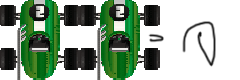
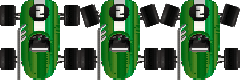
Doing a big refactor on the positioning system to be more precise.

diff --git a/src/model/cars/Car.java b/src/model/cars/Car.java
@@ -2,6 +2,7 @@ package model.cars;
 
 import model.GameObject;
 import model.misc.SmokeController;
+import util.Geom;
 import util.ImageHandler;
 
 import java.awt.image.BufferedImage;
@@ -16,6 +17,7 @@ public class Car implements DrawableCar, FragileCar {
     private States state = States.STRAIGHT;
 
     private double x,y;
+    private double hypotenusa;
     private final int originX, originY;
     private double heading;
     private double physHeading;
@@ -45,11 +47,12 @@ public class Car implements DrawableCar, FragileCar {
         originX = x;
         originY = y;
         originHeading = heading;
-        //TODO Fix friction in constructor
         this.friction = friction;
 
         reset();
         setImages();
+
+        hypotenusa = Math.sqrt(getWidth()*getWidth()/4 + getHeight()*getHeight()/4);
 
         smoke = new SmokeController(this);
     }
@@ -119,12 +122,32 @@ public class Car implements DrawableCar, FragileCar {
 
     @Override
     public int getX(){
-        return (int)(x - images[0].getWidth()/2);
+        return (int)x;
     }
 
     @Override
     public int getY(){
-        return (int)(y - images[0].getHeight()/2);
+        return (int)y;
+    }
+
+    public int getRotX(){
+
+        double middleX = x + ((getWidth())*
+                Math.cos(heading)*Math.cos(heading) +
+                (getHeight())*
+                        Math.sin(heading)*Math.sin(heading))/2;
+
+        return (int)(middleX + hypotenusa*Math.sin(heading - Math.PI/4)*Math.sin(heading - Math.PI/4));
+        //return (int)middleX;
+    }
+
+    public int getRotY(){
+        double middleY = y + ((getWidth())*
+                Math.sin(heading)*Math.sin(heading) +
+                (getHeight())* Math.cos(heading)*Math.cos(heading))/2;
+
+        //return (int)middleY;
+        return (int)(middleY - hypotenusa*Math.cos(heading - Math.PI/4)*Math.cos(heading - Math.PI/4));
     }
 
     @Override
@@ -139,7 +162,7 @@ public class Car implements DrawableCar, FragileCar {
 
     @Override
     public double getHeading(){
-        return heading;
+        return Geom.getPI(heading);
     }
 
     @Override
@@ -149,7 +172,7 @@ public class Car implements DrawableCar, FragileCar {
 
     @Override
     public void accelerate() {
-        if(!turnedOff){
+        if(!turnedOff && !locked){
             accelerating = true;
 
             if(acceleration < speedLimit){

diff --git a/src/view/MainSurface.java b/src/view/MainSurface.java
@@ -76,21 +76,35 @@ public class MainSurface extends JPanel {
 
     private void paintCars(Graphics2D g){
         for(int i = 0; i < track.getDrawableCars().length; i++){
-
             int frame = track.getDrawableCars()[i].getFrame();
+            double heading = track.getDrawableCars()[i].getHeading();
 
             //Algorithm for centering image and scaling to window.
-            int x = (int)((track.getDrawableCars()[i].getX() - track.getDrawableCars()[i].getWidth()/2)*scale()) + scaleX();
-            int y = (int)((track.getDrawableCars()[i].getY() - track.getDrawableCars()[i].getHeight()/2)*scale());
-            int middleX = (int)(x + (track.getDrawableCars()[i].getWidth()/2)*scale());
-            int middleY = (int)(y + (track.getDrawableCars()[i].getHeight()/2)*scale());
+            //int x = (int)((track.getDrawableCars()[i].getX() - track.getDrawableCars()[i].getWidth()/2)*scale()) + scaleX();
+            //int y = (int)((track.getDrawableCars()[i].getY() - track.getDrawableCars()[i].getHeight()/2)*scale());
+            int x = (int)(track.getDrawableCars()[i].getX()*scale() + scaleX());
+            int y = (int)(track.getDrawableCars()[i].getY()*scale());
 
-            g.rotate(track.getDrawableCars()[i].getHeading(), middleX, middleY);
+
+            double middleX = (track.getDrawableCars()[i].getX() + ((track.getDrawableCars()[i].getWidth())*
+                    Math.cos(heading)*Math.cos(heading) +
+                    (track.getDrawableCars()[i].getHeight())*
+                            Math.sin(heading)*Math.sin(heading))/2)*scale();
+
+            double middleY = (track.getDrawableCars()[i].getY() + ((track.getDrawableCars()[i].getWidth())*
+                    Math.pow(Math.sin(heading), 2) +
+                    (track.getDrawableCars()[i].getHeight())*
+                            Math.pow(Math.cos(heading),2))/2)*scale();
+
+            g.rotate(heading, middleX, middleY);
 
             //Draw scaled car image
             g.drawImage(scaledCarImgs[i][frame], x, y, this);
+            g.setColor(Color.red);
+            g.fillRoundRect((int)(track.getDrawableCars()[i].getRotX()*scale()),
+                    (int)(track.getDrawableCars()[i].getRotY()*scale()), 10, 10, 10, 10);
 
-            g.rotate(-track.getDrawableCars()[i].getHeading(), middleX, middleY);
+            g.rotate(-heading, middleX, middleY);
         }
     }
 

diff --git a/src/controller/PlayerController.java b/src/controller/PlayerController.java
@@ -37,7 +37,7 @@ public class PlayerController implements KeyListener {
             //Tell the car to go straight when release left or right
             switch(players.length){
                 case 1:
-                    if(e.getKeyCode() == KeyEvent.VK_LEFT || e.getKeyCode() == KeyEvent.VK_LEFT){
+                    if(e.getKeyCode() == KeyEvent.VK_LEFT || e.getKeyCode() == KeyEvent.VK_RIGHT){
                         players[0].release();
                     }
                     break;

diff --git a/src/util/Geom.java b/src/util/Geom.java
@@ -1,0 +1,16 @@
+package util;
+
+/**
+ * Created by pontu on 2016-09-23.
+ */
+public class Geom {
+    public static double getPI(double angle){
+        angle = angle % (Math.PI*2);
+        if (angle >= Math.PI && angle > 0) {
+            return angle - Math.PI*2;
+        }else if(angle <= -Math.PI){
+            return angle + Math.PI*2;
+        }
+        return angle;
+    }
+}

diff --git a/src/model/World.java b/src/model/World.java
@@ -327,11 +327,13 @@ public class World implements Racetrack{
         finished = allFinished;
     }
 
+    private boolean released = false;
     private void releaseCars(){
-        if(getTime()/10 == 0){
+        if(!released && time > 0){
             for(FragileCar car : cars){
                 car.setLocked(false);
             }
+            released = true;
         }
     }
 

diff --git a/src/model/cars/DrawableCar.java b/src/model/cars/DrawableCar.java
@@ -10,6 +10,8 @@ import java.awt.image.BufferedImage;
 public interface DrawableCar {
     int getX();
     int getY();
+    int getRotX();
+    int getRotY();
     int getWidth();
     int getHeight();
     double getHeading();
